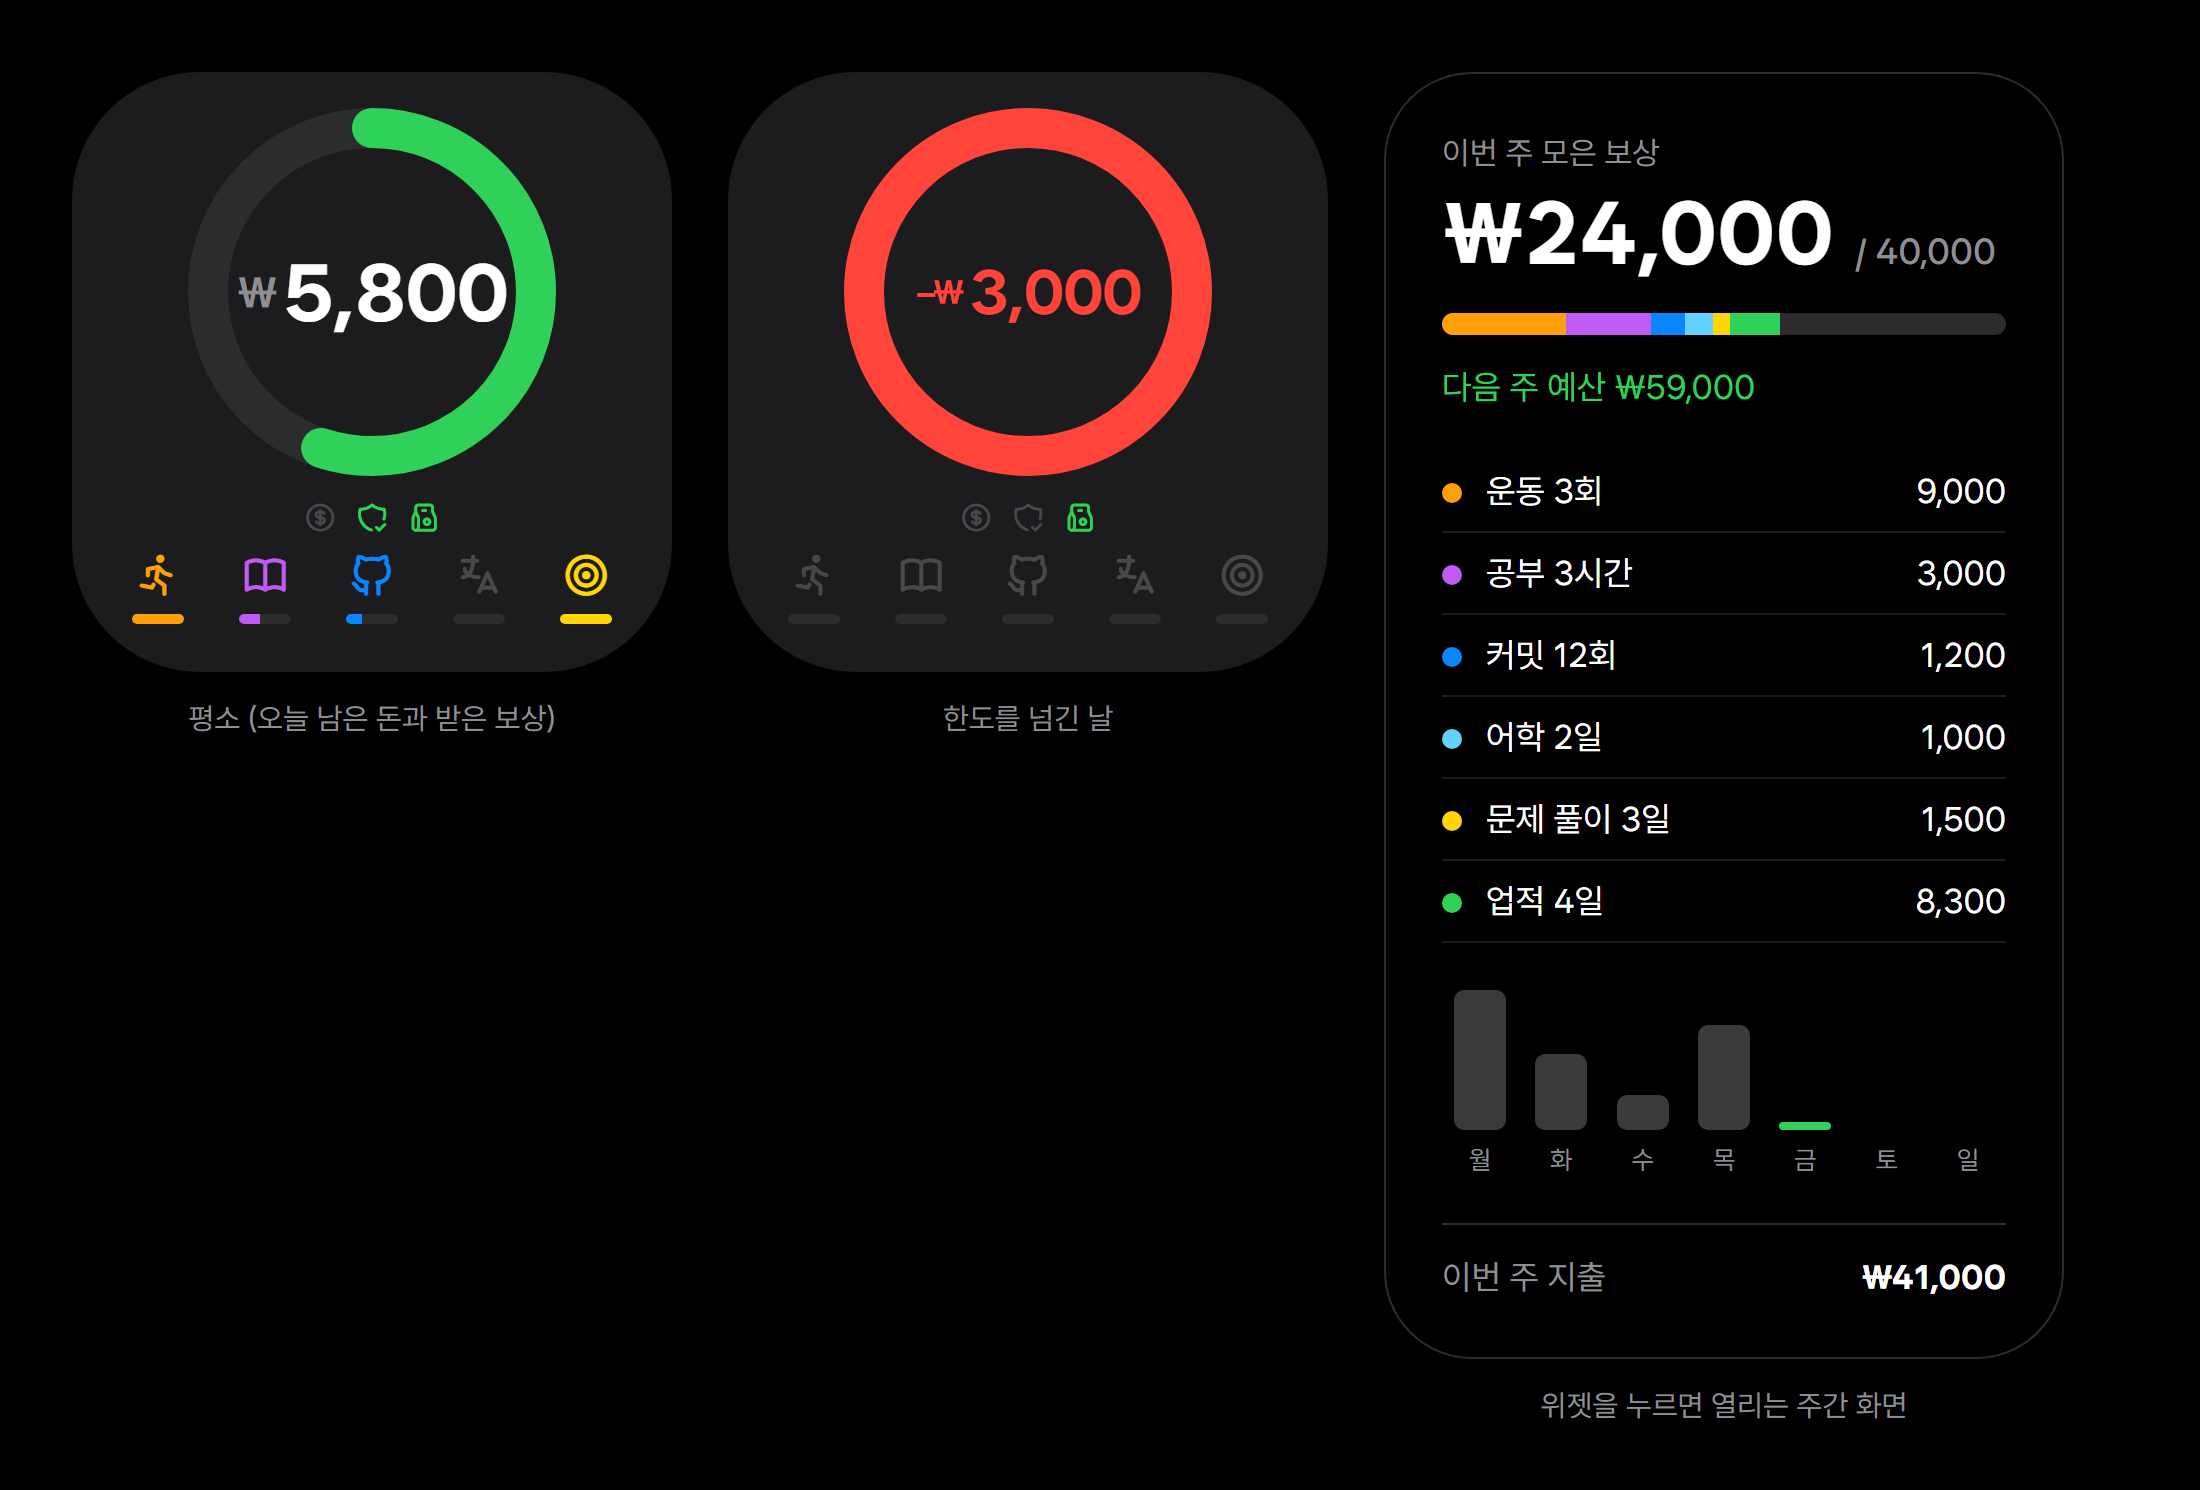
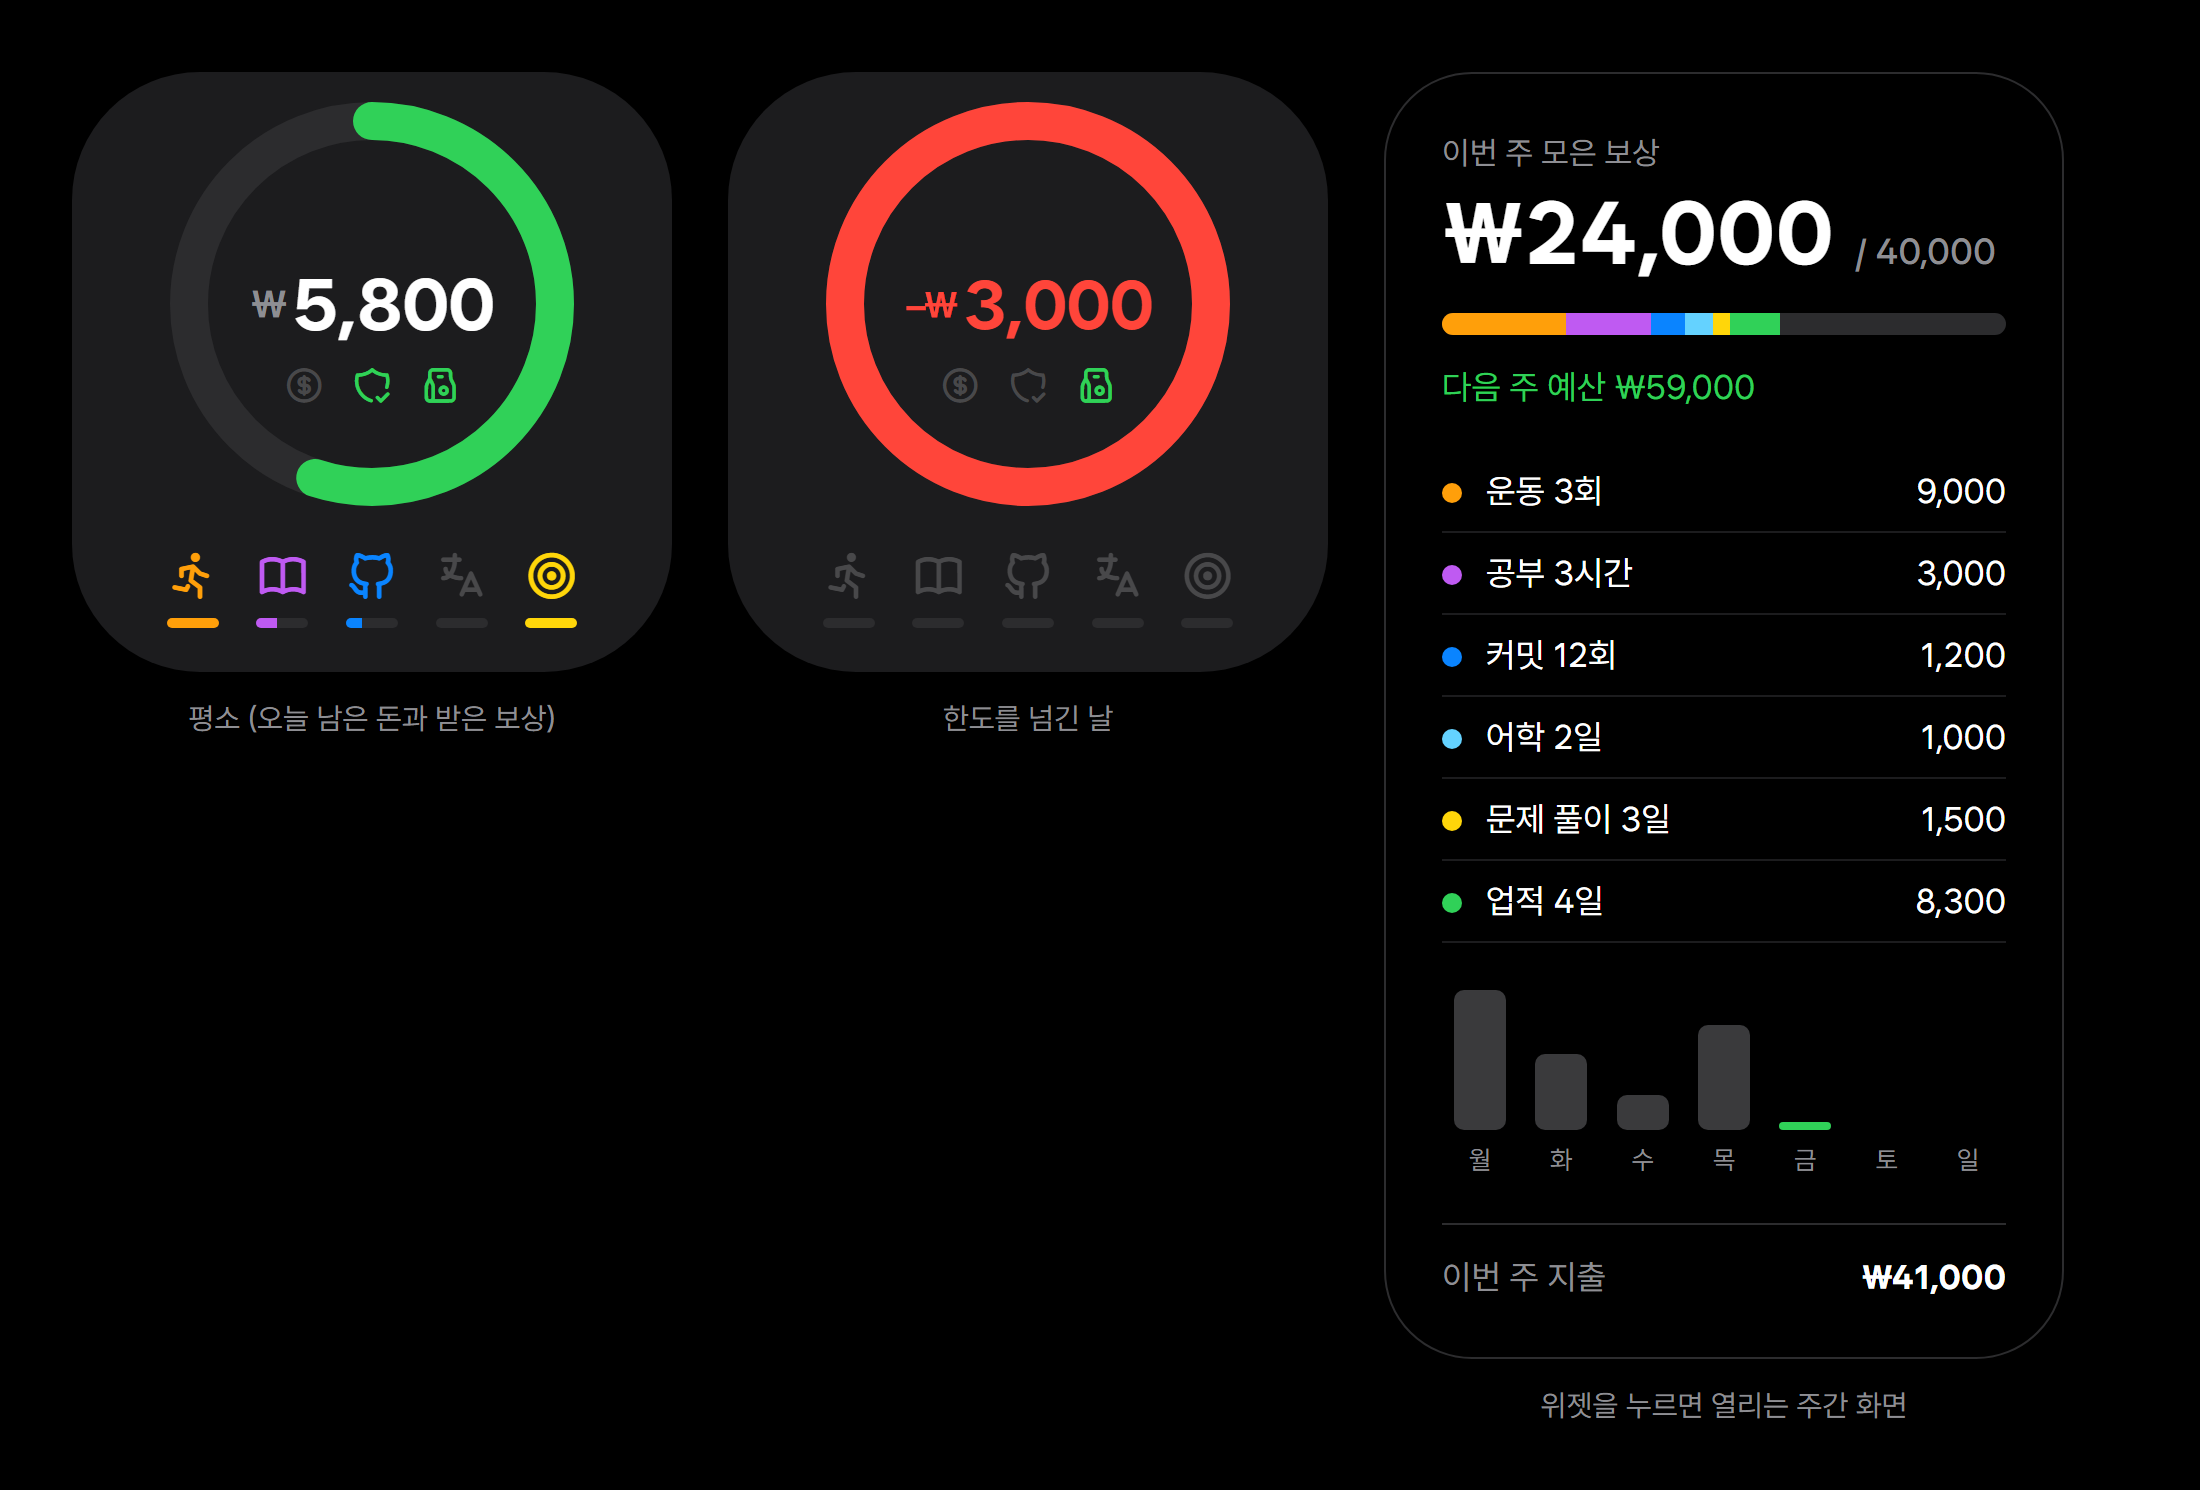
docs: README 이미지를 실제 위젯 배치와 같게 갱신

Changed region(s): [[0.3709, 0.0617, 0.5564, 0.4013], [0.0618, 0.0617, 0.2782, 0.4322], [0.4945, 0.3705, 0.5873, 0.4013]]

diff --git a/design/readme-images.html b/design/readme-images.html
@@ -8,12 +8,12 @@
   .row{display:flex;gap:28px;align-items:flex-start}
   .cap{font-size:15px;color:#8e8e93;text-align:center;margin-top:14px}
   .tile{width:300px;height:300px;border-radius:64px;background:#1c1c1e;position:relative}
-  .ring{position:absolute;left:50%;top:18px;transform:translateX(-50%)}
-  .num{position:absolute;left:0;right:0;top:18px;height:184px;display:flex;align-items:center;justify-content:center;font-weight:700;letter-spacing:-1px;font-variant-numeric:tabular-nums}
+  .ring{position:absolute;left:50%;top:15px;transform:translateX(-50%)}
+  .num{position:absolute;left:0;right:0;top:15px;height:202px;display:flex;align-items:center;justify-content:center;font-weight:700;letter-spacing:-1px;font-variant-numeric:tabular-nums}
   .num .w{color:#8e8e93;font-weight:600;margin-right:3px}
-  .badges{position:absolute;left:0;right:0;top:214px;display:flex;justify-content:center;gap:9px;font-size:17px}
-  .chips{position:absolute;left:30px;right:30px;bottom:24px;display:flex;justify-content:space-between}
-  .chip{display:flex;flex-direction:column;align-items:center;gap:7px;font-size:25px}
+  .badges{position:absolute;left:0;right:0;top:146px;display:flex;justify-content:center;gap:13px;font-size:21px}
+  .chips{position:absolute;left:38px;right:38px;bottom:22px;display:flex}
+  .chip{flex:1;display:flex;flex-direction:column;align-items:center;gap:7px;font-size:28px}
   .bar{width:26px;height:5px;border-radius:3px;background:#2c2c2e;overflow:hidden}
   .bar>div{height:100%}
   .week{width:340px;border-radius:44px;background:#000;border:1px solid #2c2c2e;padding:30px 28px}
@@ -35,15 +35,15 @@
   <div id="a"></div><div id="b"></div><div id="c"></div>
 </div>
 <script>
-const ring=(pct,color,size=184,sw=20)=>{const r=(size-sw)/2,c=2*Math.PI*r;return `<svg class="ring" width="${size}" height="${size}"><circle cx="${size/2}" cy="${size/2}" r="${r}" fill="none" stroke="#2c2c2e" stroke-width="${sw}"/>${pct>=1?`<circle cx="${size/2}" cy="${size/2}" r="${r}" fill="none" stroke="${color}" stroke-width="${sw}"/>`:`<circle cx="${size/2}" cy="${size/2}" r="${r}" fill="none" stroke="${color}" stroke-width="${sw}" stroke-linecap="round" stroke-dasharray="${c*pct} ${c}" transform="rotate(-90 ${size/2} ${size/2})"/>`}</svg>`};
+const ring=(pct,color,size=202,sw=19)=>{const r=(size-sw)/2,c=2*Math.PI*r;return `<svg class="ring" width="${size}" height="${size}"><circle cx="${size/2}" cy="${size/2}" r="${r}" fill="none" stroke="#2c2c2e" stroke-width="${sw}"/>${pct>=1?`<circle cx="${size/2}" cy="${size/2}" r="${r}" fill="none" stroke="${color}" stroke-width="${sw}"/>`:`<circle cx="${size/2}" cy="${size/2}" r="${r}" fill="none" stroke="${color}" stroke-width="${sw}" stroke-linecap="round" stroke-dasharray="${c*pct} ${c}" transform="rotate(-90 ${size/2} ${size/2})"/>`}</svg>`};
 const chip=(ic,col,p)=>`<div class="chip"><i class="ti ${ic}" style="color:${p>0?col:'#48484a'}"></i><div class="bar"><div style="width:${p*100}%;background:${col}"></div></div></div>`;
 const badge=(ic,state)=>`<i class="ti ${ic}" style="color:${state==='earned'?'#30d158':'#48484a'}"></i>`;
 const widget=(o)=>`<div class="tile">${ring(o.pct,o.over?'#ff453a':'#30d158')}
 <div class="num" style="font-size:${o.size}px;color:${o.over?'#ff453a':'#fff'}"><span class="w" style="font-size:${o.size*.55}px;${o.over?'color:#ff453a':''}">${o.over?'−₩':'₩'}</span>${o.text}</div>
 <div class="badges">${o.badges.join('')}</div>
 <div class="chips">${o.chips.join('')}</div></div>`;
-a.innerHTML=widget({pct:.55,over:false,size:40,text:'5,800',badges:[badge('ti-coin','off'),badge('ti-shield-check','earned'),badge('ti-paper-bag','earned')],chips:[chip('ti-run','#ff9f0a',1),chip('ti-book','#bf5af2',.4),chip('ti-brand-github','#0a84ff',.3),chip('ti-language','#64d2ff',0),chip('ti-target','#ffd60a',1)]})+'<div class="cap">평소 (오늘 남은 돈과 받은 보상)</div>';
-b.innerHTML=widget({pct:1,over:true,size:31,text:'3,000',badges:[badge('ti-coin','off'),badge('ti-shield-check','off'),badge('ti-paper-bag','earned')],chips:[chip('ti-run','#ff9f0a',0),chip('ti-book','#bf5af2',0),chip('ti-brand-github','#0a84ff',0),chip('ti-language','#64d2ff',0),chip('ti-target','#ffd60a',0)]})+'<div class="cap">한도를 넘긴 날</div>';
+a.innerHTML=widget({pct:.55,over:false,size:36,text:'5,800',badges:[badge('ti-coin','off'),badge('ti-shield-check','earned'),badge('ti-paper-bag','earned')],chips:[chip('ti-run','#ff9f0a',1),chip('ti-book','#bf5af2',.4),chip('ti-brand-github','#0a84ff',.3),chip('ti-language','#64d2ff',0),chip('ti-target','#ffd60a',1)]})+'<div class="cap">평소 (오늘 남은 돈과 받은 보상)</div>';
+b.innerHTML=widget({pct:1,over:true,size:34,text:'3,000',badges:[badge('ti-coin','off'),badge('ti-shield-check','off'),badge('ti-paper-bag','earned')],chips:[chip('ti-run','#ff9f0a',0),chip('ti-book','#bf5af2',0),chip('ti-brand-github','#0a84ff',0),chip('ti-language','#64d2ff',0),chip('ti-target','#ffd60a',0)]})+'<div class="cap">한도를 넘긴 날</div>';
 const days=[[12000,'월'],[6500,'화'],[3000,'수'],[9000,'목'],[0,'금'],[-1,'토'],[-1,'일']];
 c.innerHTML=`<div class="week"><div class="l">이번 주 모은 보상</div><div class="big">₩24,000 <small>/ 40,000</small></div>
 <div class="track"><div style="width:22%;background:#ff9f0a"></div><div style="width:15%;background:#bf5af2"></div><div style="width:6%;background:#0a84ff"></div><div style="width:5%;background:#64d2ff"></div><div style="width:3%;background:#ffd60a"></div><div style="width:9%;background:#30d158"></div></div>
